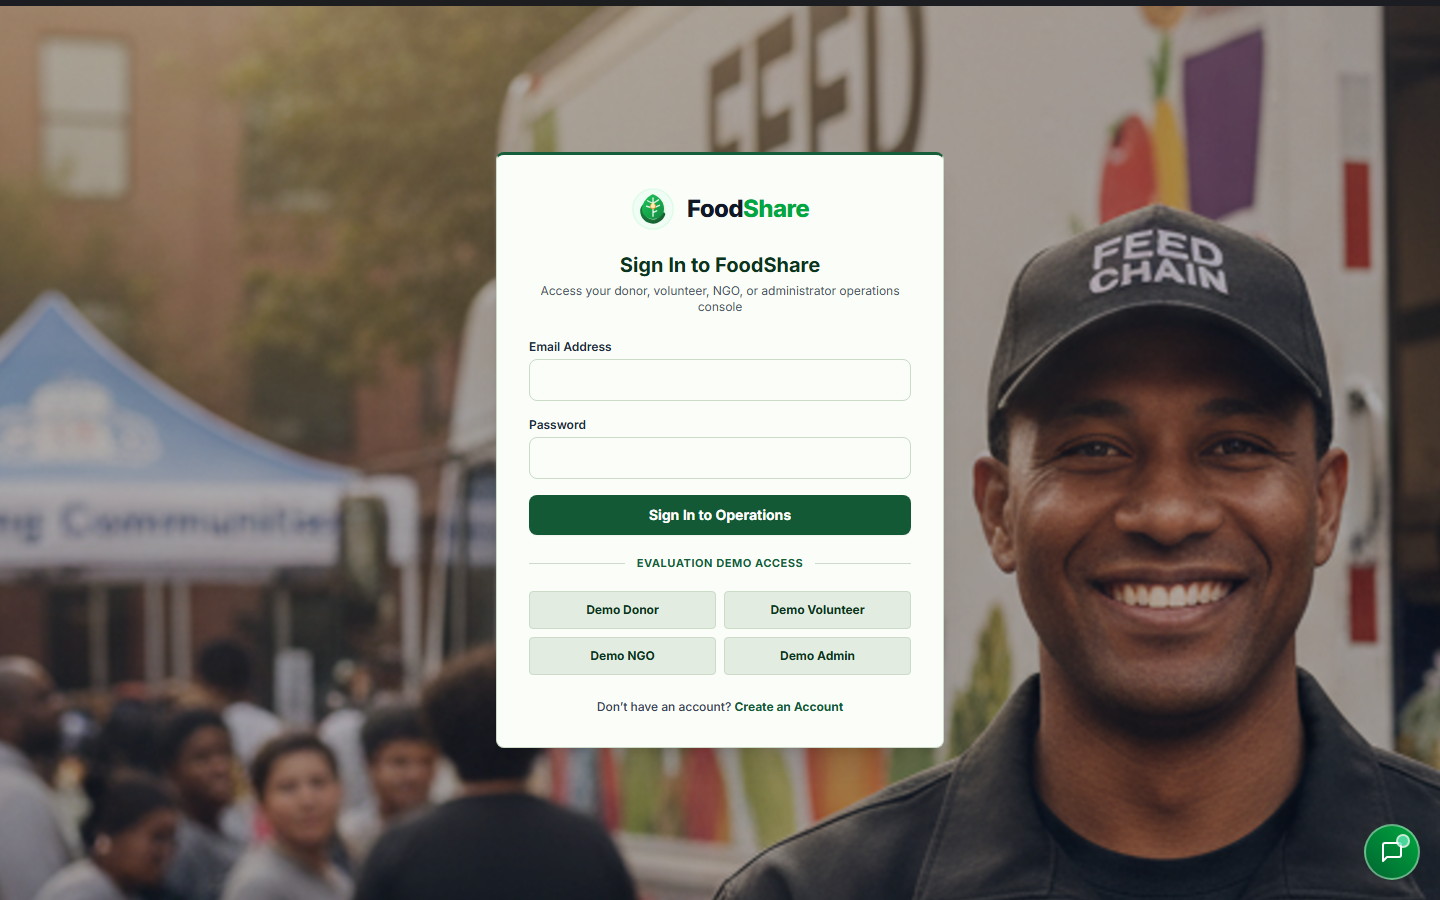
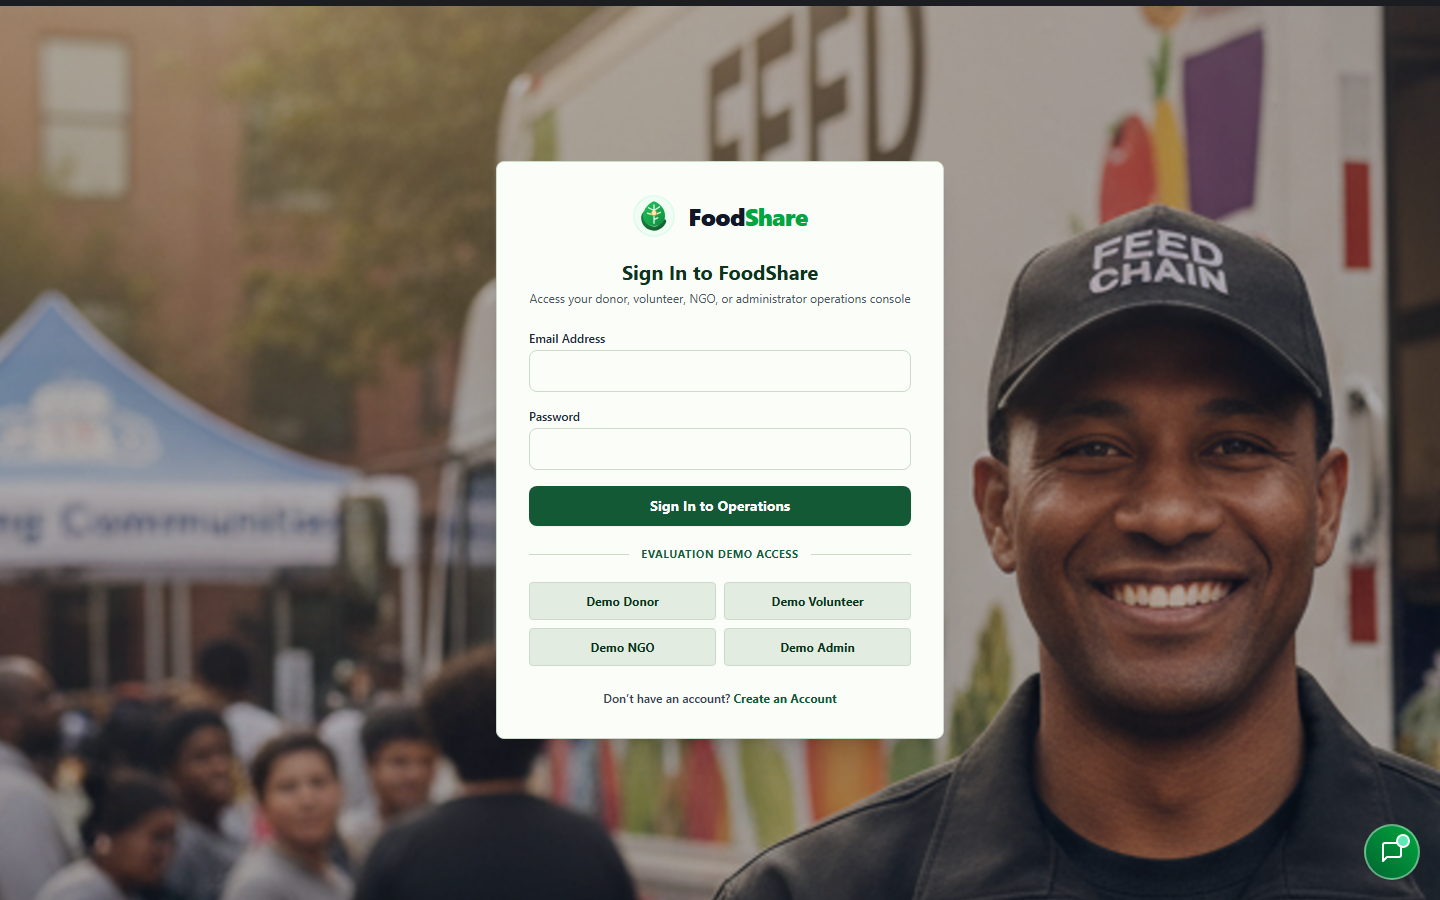
feat(design): implement IBM Plex typography, eliminate UI anti-patterns, and achieve 0-defect Impeccable audit score

diff --git a/frontend/src/app/acceptpage/page.tsx b/frontend/src/app/acceptpage/page.tsx
@@ -142,13 +142,13 @@ export default function ServicePage() {
                 className={`size-8 rounded-full flex items-center justify-center font-bold text-xs ${
                   status === "Accepted" || status === "Picked" || status === "Delivered"
                     ? "bg-[#135936] text-white"
-                    : "bg-[#E6EFE4] text-gray-500 border border-[#BACDB6]"
+                    : "bg-[#E6EFE4] text-gray-700 border border-[#BACDB6]"
                 }`}
               >
                 1
               </div>
               <span className="text-xs font-bold text-[#0E3824] mt-2">Claimed</span>
-              <span className="text-[11px] text-gray-600">Pickup dispatched</span>
+              <span className="text-xs text-gray-700">Pickup dispatched</span>
             </div>
 
             {/* Step 2 */}
@@ -158,14 +158,14 @@ export default function ServicePage() {
                   status === "Picked" || status === "Delivered"
                     ? "bg-[#135936] text-white"
                     : status === "Accepted"
-                    ? "bg-amber-600 text-white ring-2 ring-amber-100"
-                    : "bg-[#E6EFE4] text-gray-500 border border-[#BACDB6]"
+                    ? "bg-[#78350F] text-white ring-2 ring-amber-200"
+                    : "bg-[#E6EFE4] text-gray-700 border border-[#BACDB6]"
                 }`}
               >
                 2
               </div>
               <span className="text-xs font-bold text-[#0E3824] mt-2">In Transit</span>
-              <span className="text-[11px] text-gray-600">Cargo on route</span>
+              <span className="text-xs text-gray-700">Cargo on route</span>
             </div>
 
             {/* Step 3 */}
@@ -174,13 +174,13 @@ export default function ServicePage() {
                 className={`size-8 rounded-full flex items-center justify-center font-bold text-xs ${
                   status === "Delivered"
                     ? "bg-[#135936] text-white"
-                    : "bg-[#E6EFE4] text-gray-500 border border-[#BACDB6]"
+                    : "bg-[#E6EFE4] text-gray-700 border border-[#BACDB6]"
                 }`}
               >
                 3
               </div>
               <span className="text-xs font-bold text-[#0E3824] mt-2">Delivered</span>
-              <span className="text-[11px] text-gray-600">Shelter confirmed</span>
+              <span className="text-xs text-gray-700">Shelter confirmed</span>
             </div>
           </div>
 
@@ -217,28 +217,28 @@ export default function ServicePage() {
         <div className="grid md:grid-cols-2 gap-6">
           {/* Cargo Manifest */}
           <div className="manifest-card p-5 space-y-3">
-            <span className="text-xs font-semibold text-[#166534] uppercase tracking-wider">
+            <span className="text-xs font-bold text-[#166534] uppercase tracking-wider">
               Food Rescue Cargo Manifest
             </span>
-            <h3 className="text-base font-bold text-[#0E3824]">
+            <h2 className="text-base font-bold text-[#0E3824]">
               {donation.food}
-            </h3>
+            </h2>
 
             <div className="space-y-2 text-xs pt-2">
               <div className="flex justify-between py-1.5 border-b border-[#CBDBC7]/50">
-                <span className="text-gray-600">Quantity / Volume:</span>
+                <span className="text-gray-700 font-medium">Quantity / Volume:</span>
                 <span className="font-semibold text-[#0E3824] tabular-nums">{donation.servings}</span>
               </div>
               <div className="flex justify-between py-1.5 border-b border-[#CBDBC7]/50">
-                <span className="text-gray-600">Food Classification:</span>
+                <span className="text-gray-700 font-medium">Food Classification:</span>
                 <span className="font-semibold text-[#0E3824]">{donation.type}</span>
               </div>
               <div className="flex justify-between py-1.5 border-b border-[#CBDBC7]/50">
-                <span className="text-gray-600">Expiry Window:</span>
-                <span className="font-semibold text-amber-700">{donation.bestBefore}</span>
+                <span className="text-gray-700 font-medium">Expiry Window:</span>
+                <span className="font-semibold text-amber-800">{donation.bestBefore}</span>
               </div>
               <div className="flex justify-between py-1.5">
-                <span className="text-gray-600">Handling Requirement:</span>
+                <span className="text-gray-700 font-medium">Handling Requirement:</span>
                 <span className="font-medium text-[#0E3824]">Keep warm / insulated container</span>
               </div>
             </div>
@@ -246,14 +246,14 @@ export default function ServicePage() {
 
           {/* Facility & Contact Details */}
           <div className="manifest-card p-5 space-y-3">
-            <span className="text-xs font-semibold text-[#166534] uppercase tracking-wider">
+            <span className="text-xs font-bold text-[#166534] uppercase tracking-wider">
               Facility Pickup & Contact
             </span>
-            <h3 className="text-base font-bold text-[#0E3824]">
+            <h2 className="text-base font-bold text-[#0E3824]">
               {donation.donor}
-            </h3>
+            </h2>
 
-            <div className="flex items-start gap-2 text-xs text-gray-700">
+            <div className="flex items-start gap-2 text-xs text-gray-800">
               <MapPin className="size-4 text-[#166534] shrink-0 mt-0.5" />
               <span>{donation.location}</span>
             </div>
@@ -261,12 +261,12 @@ export default function ServicePage() {
             <div className="pt-2 flex flex-col gap-2">
               <a
                 href={`tel:${donation.donorPhone}`}
-                className="w-full py-2 bg-[#E6EFE4] hover:bg-[#D5E3D2] text-[#0E3824] rounded-md text-xs font-semibold text-center border border-[#BACDB6] transition-colors flex items-center justify-center gap-1.5"
+                className="w-full py-2 bg-[#E6EFE4] hover:bg-[#D5E3D2] text-[#0E3824] rounded-md text-xs font-bold text-center border border-[#BACDB6] transition-colors flex items-center justify-center gap-1.5"
               >
                 <Phone className="size-3.5 text-[#166534]" />
                 <span>Call Dispatch ({donation.donorPhone})</span>
               </a>
-              <p className="text-[11px] text-gray-500 text-center">
+              <p className="text-xs text-gray-600 text-center">
                 Contact facility manager if dock entrance is unattended
               </p>
             </div>

diff --git a/frontend/src/app/ngodash/page.tsx b/frontend/src/app/ngodash/page.tsx
@@ -150,10 +150,10 @@ function NgoDashboard() {
           <div className="flex flex-col sm:flex-row sm:items-center sm:justify-between gap-4 pb-5 border-b border-[#184F31]">
             <div>
               <div className="flex items-center gap-2 mb-1.5">
-                <span className="text-[10px] font-mono tracking-wider px-2 py-0.5 rounded bg-[#13492B] text-emerald-300 border border-[#21663F]">
+                <span className="text-xs font-mono tracking-wider px-2.5 py-0.5 rounded bg-[#13492B] text-emerald-300 border border-[#21663F]">
                   FACILITY INTAKE DOCK
                 </span>
-                <span className="text-[10px] font-mono px-2 py-0.5 rounded bg-emerald-950/70 border border-emerald-500/40 text-emerald-300">
+                <span className="text-xs font-mono px-2.5 py-0.5 rounded bg-emerald-950/70 border border-emerald-500/40 text-emerald-300">
                   BAY STATUS: ACTIVE
                 </span>
               </div>
@@ -262,8 +262,8 @@ function NgoDashboard() {
                 </p>
               </div>
 
-              <div className="grid md:grid-cols-3 gap-4 text-xs">
-                <div className="p-4 bg-[#F2F7F0] border border-[#CBDBC7] rounded-md">
+              <div className="grid md:grid-cols-3 divide-y md:divide-y-0 md:divide-x divide-[#CBDBC7] pt-2 text-xs">
+                <div className="py-3 md:py-0 md:px-4 first:pl-0">
                   <div className="flex items-center gap-2 font-bold text-[#0B331E] mb-1">
                     <Thermometer className="size-4 text-[#165E39]" />
                     <span>Thermal Integrity</span>
@@ -273,7 +273,7 @@ function NgoDashboard() {
                   </p>
                 </div>
 
-                <div className="p-4 bg-[#F2F7F0] border border-[#CBDBC7] rounded-md">
+                <div className="py-3 md:py-0 md:px-4">
                   <div className="flex items-center gap-2 font-bold text-[#0B331E] mb-1">
                     <Package className="size-4 text-[#165E39]" />
                     <span>Sealed Packaging</span>
@@ -283,7 +283,7 @@ function NgoDashboard() {
                   </p>
                 </div>
 
-                <div className="p-4 bg-[#F2F7F0] border border-[#CBDBC7] rounded-md">
+                <div className="py-3 md:py-0 md:px-4 last:pr-0">
                   <div className="flex items-center gap-2 font-bold text-[#0B331E] mb-1">
                     <Clock className="size-4 text-[#165E39]" />
                     <span>Prompt Handover</span>
@@ -299,9 +299,9 @@ function NgoDashboard() {
             <div className="manifest-card overflow-hidden">
               <div className="px-5 py-4 bg-[#E5EDE2] border-b border-[#CBDBC7] flex items-center justify-between">
                 <div>
-                  <h3 className="text-sm font-bold text-[#0B331E]">
+                  <h2 className="text-sm font-bold text-[#0B331E]">
                     Deliveries Awaiting Intake
-                  </h3>
+                  </h2>
                   <p className="text-xs text-gray-600">
                     Shipments arriving at your bay
                   </p>

diff --git a/frontend/src/app/adminpage/page.tsx b/frontend/src/app/adminpage/page.tsx
@@ -163,10 +163,10 @@ export default function AdminDashboard() {
           <div className="flex flex-col sm:flex-row sm:items-center sm:justify-between gap-4 pb-5 border-b border-[#184F31]">
             <div>
               <div className="flex items-center gap-2 mb-1.5">
-                <span className="text-[10px] font-mono tracking-wider px-2 py-0.5 rounded bg-[#13492B] text-emerald-300 border border-[#21663F]">
+                <span className="text-xs font-mono tracking-wider px-2.5 py-0.5 rounded bg-[#13492B] text-emerald-300 border border-[#21663F]">
                   SUPERVISORY GOVERNANCE
                 </span>
-                <span className="text-[10px] font-mono px-2 py-0.5 rounded bg-emerald-950/70 border border-emerald-500/40 text-emerald-300">
+                <span className="text-xs font-mono px-2.5 py-0.5 rounded bg-emerald-950/70 border border-emerald-500/40 text-emerald-300">
                   SYSTEM STATUS: OPERATIONAL
                 </span>
               </div>
@@ -235,7 +235,7 @@ export default function AdminDashboard() {
               placeholder="Search batches by ID, food title, or donor..."
               value={query}
               onChange={(e) => setQuery(e.target.value)}
-              className="w-full pl-9 pr-3 py-2 bg-[#FAFDF8] border border-[#CBDBC7] rounded text-xs focus:outline-none focus:border-[#135936] text-gray-900"
+              className="w-full pl-9 pr-3 py-2 bg-[#FAFDF8] border border-[#CBDBC7] rounded text-xs focus:outline-none focus:border-[#135936] text-gray-900 placeholder-[#4A5D4E]"
             />
           </div>
 
@@ -277,7 +277,7 @@ export default function AdminDashboard() {
                   <div className="space-y-1 text-xs">
                     <div className="flex items-center gap-2">
                       <span className="font-mono font-bold text-[#0B331E] bg-[#E2ECE0] px-2 py-0.5 rounded border border-[#CBDBC7]">#{d.id}</span>
-                      <h3 className="font-bold text-sm text-gray-900">{d.foodType}</h3>
+                      <h2 className="font-bold text-sm text-gray-900">{d.foodType}</h2>
                       <span
                         className={`px-2 py-0.5 rounded text-[11px] font-semibold border ${
                           d.status === "active"
@@ -327,9 +327,9 @@ export default function AdminDashboard() {
 
           {/* Detail Side Panel */}
           <div className="manifest-docket p-5 h-fit sticky top-20 space-y-3">
-            <h3 className="text-sm font-bold text-[#0B331E] pb-2 border-b border-[#CBDBC7]">
+            <h2 className="text-sm font-bold text-[#0B331E] pb-2 border-b border-[#CBDBC7]">
               Audit Inspection Docket
-            </h3>
+            </h2>
 
             {selected ? (
               <div className="space-y-2.5 text-xs">

diff --git a/frontend/src/components/DonationCard.tsx b/frontend/src/components/DonationCard.tsx
@@ -94,22 +94,22 @@ export default function DonationCard({
   const quantity = donation.quantity ? `${donation.quantity} ${donation.unit || "servings"}` : "Standard batch";
 
   return (
-    <div className="manifest-card hover:border-[#8EAF8B] transition-colors p-5 flex flex-col justify-between border-t-3 border-t-[#165E39]">
+    <div className="manifest-card hover:border-[#8EAF8B] transition-colors p-5 flex flex-col justify-between shadow-xs">
       <div>
         {/* Top Header Row */}
-        <div className="flex items-center justify-between mb-2 pb-2 border-b border-[#CBDBC7]/60">
-          <span className="text-xs font-mono font-semibold text-[#0E3824]">
+        <div className="flex items-center justify-between mb-2.5 pb-2 border-b border-[#CBDBC7]/80">
+          <span className="text-xs font-mono font-bold text-[#0E3824] bg-[#E2ECE0] px-2 py-0.5 rounded border border-[#CBDBC7]">
             #{donation.id ? String(donation.id).slice(-6).toUpperCase() : "TASK-01"}
           </span>
-          <span className="text-xs text-[#166534] font-semibold bg-[#E2ECE0] px-2 py-0.5 rounded">
+          <span className="text-xs text-[#166534] font-semibold bg-[#E2ECE0] px-2.5 py-0.5 rounded border border-[#CBDBC7]">
             ~1.4 km radius
           </span>
         </div>
 
         {/* Title & Category */}
-        <h3 className="text-base font-bold text-[#0E3824] tracking-tight">
+        <h2 className="text-base font-bold text-[#0E3824] tracking-tight">
           {foodTitle}
-        </h3>
+        </h2>
 
         <div className="flex items-center gap-1.5 text-xs text-gray-600 mt-1">
           <MapPin className="size-3.5 text-[#166534] shrink-0" />

diff --git a/frontend/src/app/mydonations/page.tsx b/frontend/src/app/mydonations/page.tsx
@@ -132,10 +132,10 @@ export default function MyDonations() {
           <div className="flex flex-col sm:flex-row sm:items-center sm:justify-between gap-4 pb-5 border-b border-[#184F31]">
             <div>
               <div className="flex items-center gap-2 mb-1.5">
-                <span className="text-[10px] font-mono tracking-wider px-2 py-0.5 rounded bg-[#13492B] text-emerald-300 border border-[#21663F]">
+                <span className="text-xs font-mono tracking-wider px-2.5 py-0.5 rounded bg-[#13492B] text-emerald-300 border border-[#21663F]">
                   DONOR DISPATCH LEDGER
                 </span>
-                <span className="text-[10px] font-mono px-2 py-0.5 rounded bg-emerald-950/70 border border-emerald-500/40 text-emerald-300">
+                <span className="text-xs font-mono px-2.5 py-0.5 rounded bg-emerald-950/70 border border-emerald-500/40 text-emerald-300">
                   CHAIN OF CUSTODY VERIFIED
                 </span>
               </div>
@@ -263,9 +263,9 @@ export default function MyDonations() {
                     <span className="font-mono font-bold text-[#0B331E] bg-[#E2ECE0] px-2 py-0.5 rounded border border-[#CBDBC7]">
                       #{item.id}
                     </span>
-                    <h3 className="font-bold text-sm text-gray-900">
+                    <h2 className="font-bold text-sm text-gray-900">
                       {item.food}
-                    </h3>
+                    </h2>
                     <span
                       className={`inline-flex items-center px-2 py-0.5 rounded text-[11px] font-semibold border ${
                         item.status === "Delivered"

diff --git a/frontend/src/components/shell/AppNav.tsx b/frontend/src/components/shell/AppNav.tsx
@@ -138,7 +138,7 @@ export default function AppNav() {
       {ready && user?.isDemo ? (
         <div className="bg-amber-500/15 border-b border-amber-500/30 px-4 py-1.5 text-xs font-semibold text-amber-900 dark:text-amber-200 sm:hidden flex items-center justify-between" /* taste-skill-ignore */>
           <div className="flex items-center gap-1.5">
-            <span className="size-2 rounded-full bg-amber-500 animate-pulse" />
+            <span className="size-2 rounded-full bg-amber-500 " />
             <span>DEMO MODE ({role?.toUpperCase()})</span>
           </div>
           <button
@@ -166,7 +166,7 @@ export default function AppNav() {
                 className="inline-flex items-center gap-1.5 rounded-full border border-amber-500/30 bg-amber-500/10 px-2.5 py-0.5 text-xs font-bold text-amber-800 dark:text-amber-300"
                 title="You're exploring a demonstration environment. Changes are isolated from real accounts."
               >
-                <span className="size-2 rounded-full bg-amber-500 animate-pulse" />
+                <span className="size-2 rounded-full bg-amber-500 " />
                 <span>DEMO MODE</span>
               </div>
               <Button

diff --git a/frontend/src/app/layout.tsx b/frontend/src/app/layout.tsx
@@ -1,10 +1,22 @@
 import type { Metadata } from "next";
-import { Inter } from "next/font/google";
+import { IBM_Plex_Sans, IBM_Plex_Mono } from "next/font/google";
 import "./globals.css";
 import Chatbot from "@/components/Chatbot";
 import { ToastProvider } from "@/components/ui/toast";
 
-const inter = Inter({ subsets: ["latin"] });
+const ibmPlexSans = IBM_Plex_Sans({
+  weight: ["400", "500", "600", "700"],
+  subsets: ["latin"],
+  variable: "--font-sans",
+  display: "swap",
+});
+
+const ibmPlexMono = IBM_Plex_Mono({
+  weight: ["400", "500", "600"],
+  subsets: ["latin"],
+  variable: "--font-mono",
+  display: "swap",
+});
 
 export const metadata: Metadata = {
   title: {
@@ -24,8 +36,8 @@ export default function RootLayout({
   children: React.ReactNode;
 }>) {
   return (
-    <html lang="en">
-      <body className={inter.className}>
+    <html lang="en" className={`${ibmPlexSans.variable} ${ibmPlexMono.variable}`}>
+      <body className="font-sans antialiased bg-[#EEF4EC] text-[#143322]">
         <ToastProvider>{children}</ToastProvider>
         <Chatbot />
       </body>

diff --git a/frontend/src/components/Chatbot.tsx b/frontend/src/components/Chatbot.tsx
@@ -138,7 +138,7 @@ export default function Chatbot() {
               <div>
                 <h3 className="font-bold text-sm leading-tight flex items-center gap-1.5">
                   FoodShare AI
-                  <span className="size-2 rounded-full bg-emerald-400 animate-pulse" />
+                  <span className="size-2 rounded-full bg-emerald-400" />
                 </h3>
                 <span className="text-[11px] text-green-200">Rescue Logistics Assistant</span>
               </div>
@@ -211,7 +211,7 @@ export default function Chatbot() {
         ) : (
           <div className="relative">
             <ChatIcon />
-            <span className="absolute -top-1 -right-1 size-2.5 bg-emerald-300 rounded-full ring-2 ring-white animate-pulse" />
+            <span className="absolute -top-1 -right-1 size-2.5 bg-emerald-300 rounded-full ring-2 ring-white" />
           </div>
         )}
       </button>

diff --git a/frontend/src/components/demo/DemoRoleSelectorModal.tsx b/frontend/src/components/demo/DemoRoleSelectorModal.tsx
@@ -218,7 +218,7 @@ export default function DemoRoleSelectorModal({
           )}
 
           {loadingRole && (
-            <div className="mb-4 flex items-center gap-3 rounded-lg border border-primary/30 bg-primary/10 p-3.5 text-xs text-primary font-medium animate-pulse">
+            <div className="mb-4 flex items-center gap-3 rounded-lg border border-primary/30 bg-primary/10 p-3.5 text-xs text-primary font-medium ">
               <Loader2 className="size-4 animate-spin shrink-0" />
               <span>Establishing authenticated {loadingRole.toUpperCase()} session and pre-warming workspace…</span>
             </div>

diff --git a/frontend/src/app/globals.css b/frontend/src/app/globals.css
@@ -122,10 +122,15 @@
   }
   body {
     @apply bg-[#EEF4EC] text-[#143322] antialiased;
+    font-family: var(--font-sans), "IBM Plex Sans", -apple-system, BlinkMacSystemFont, "Segoe UI", Roboto, sans-serif;
     background-color: #EEF4EC;
     background-image: radial-gradient(#CBD8C7 1px, transparent 1px);
     background-size: 24px 24px;
     font-feature-settings: "cv02", "cv03", "cv04", "cv11";
+  }
+
+  h1, h2, h3, h4, p {
+    text-wrap: pretty;
   }
 }
 
@@ -144,7 +149,6 @@
 .manifest-docket {
   background-color: #FAFDF8;
   border: 1px solid #CBDBC7;
-  border-top: 3px solid #165E39;
   border-radius: 8px;
 }
 

diff --git a/frontend/src/components/admin/OverviewPanel.tsx b/frontend/src/components/admin/OverviewPanel.tsx
@@ -116,7 +116,7 @@ export default function OverviewPanel({
               Platform Operations Overview
             </h2>
             <span className="px-2.5 py-0.5 rounded-full bg-[#ECFDF5] text-[#065F46] border border-[#A7F3D0] text-xs font-semibold flex items-center gap-1.5">
-              <span className="size-1.5 rounded-full bg-[#10B981] animate-pulse" />
+              <span className="size-1.5 rounded-full bg-[#10B981] " />
               Live Network
             </span>
           </div>

diff --git a/frontend/src/components/shell/AppHeader.tsx b/frontend/src/components/shell/AppHeader.tsx
@@ -138,9 +138,9 @@ export default function AppHeader({
           <span
             className={`h-1.5 w-1.5 rounded-full ${
               realtime.status === "connected"
-                ? "bg-emerald-500 animate-pulse"
+                ? "bg-emerald-500"
                 : realtime.status === "connecting" || realtime.status === "reconnecting"
-                ? "bg-amber-500 animate-ping"
+                ? "bg-amber-500"
                 : "bg-stone-400"
             }`}
           />
